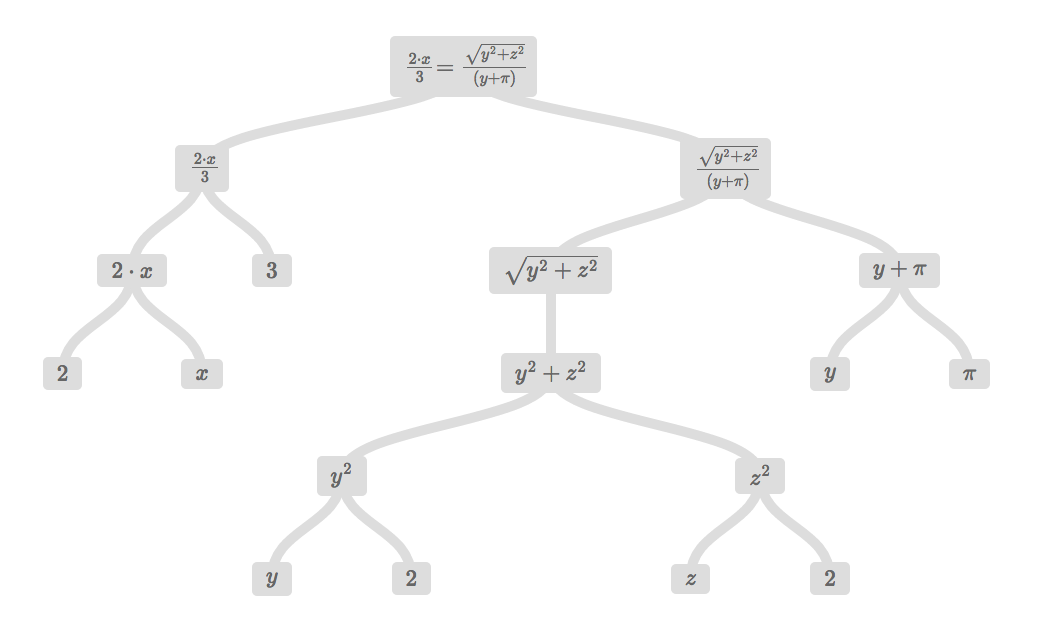
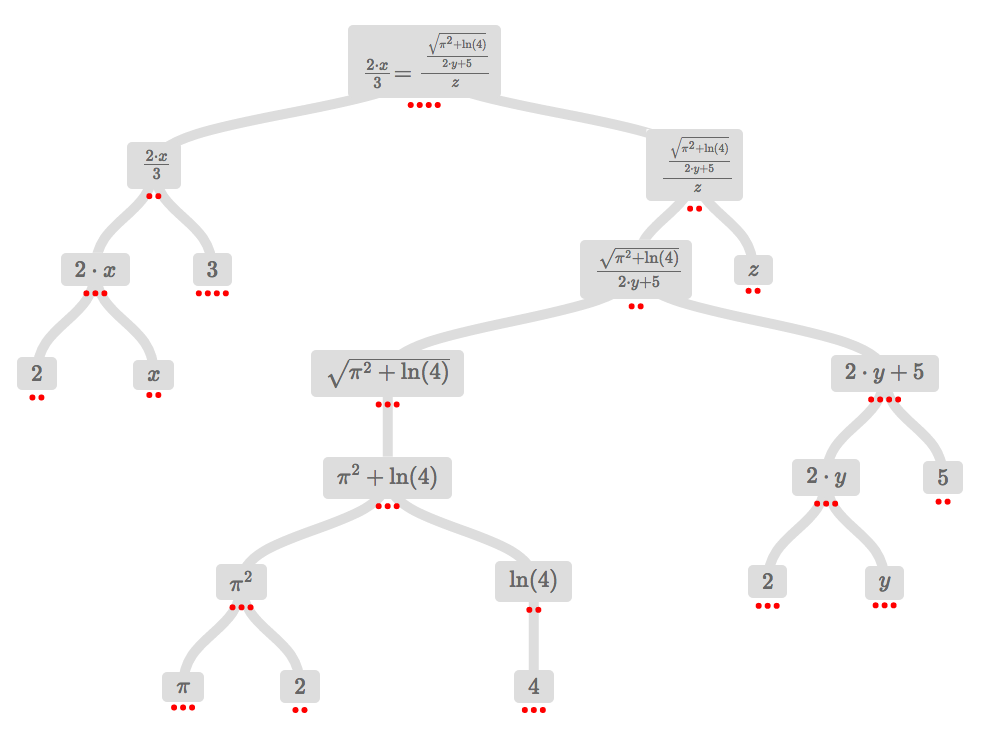
update expression and image of it

Changed region(s): [[0.0, 0.0304, 1.0, 0.9744], [0.6079, 0.8221, 0.6991, 0.9744], [0.3647, 0.8526, 0.4255, 0.9744]]

diff --git a/src/app/main.js b/src/app/main.js
@@ -31,7 +31,7 @@ $eqInput.on('change', d => {
 function start() {
   started = true;
   /* $eqInput.val('x==1+2');*/
-  $eqInput.val('(2*x)/3==(sqrt(w^2 + 4^2) / (2 * y + 5))/z');
+  $eqInput.val('(2*x)/3==(sqrt(pi^2 + log(4)) / (2 * y + 5))/z');
   /* $eqInput.val('(2 + (2 * 4))/5');*/
   $eqInput.change();
 }

diff --git a/src/app/main.scss b/src/app/main.scss
@@ -57,6 +57,7 @@ $mathColor: #666;
     fill: none;
     stroke: $trackColor;
     stroke-width: 10px;
+    stroke-linecap: round;
   }
 }
 
